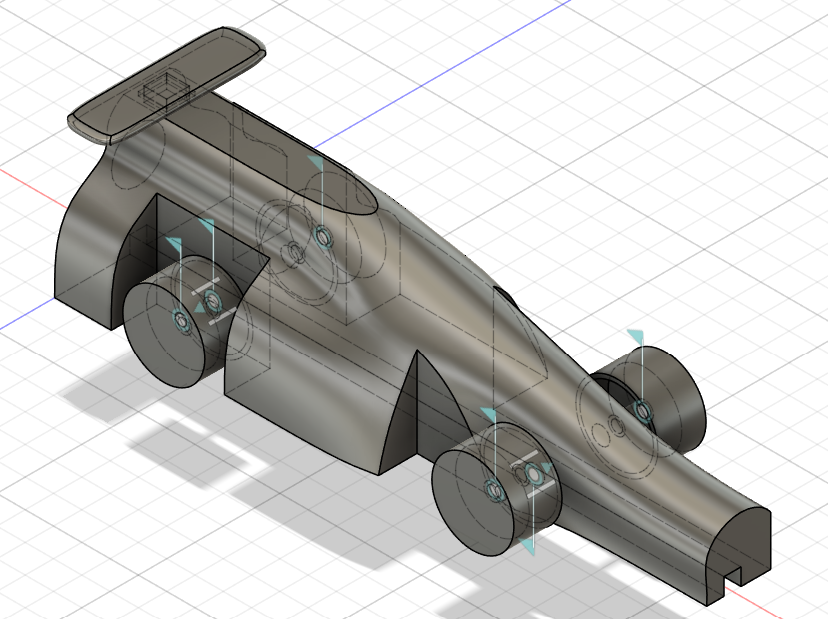
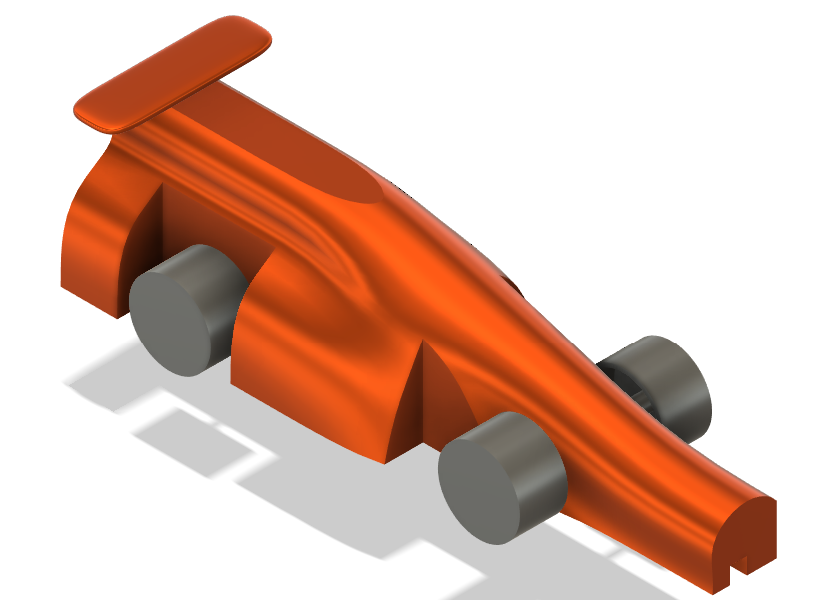
necessary changes

diff --git a/index.html b/index.html
@@ -101,7 +101,7 @@
     <section id="countdown" class="countdown reveal" aria-label="Countdown to race day">
       <div class="section-inner">
         <h2 class="section-title">Race Day <span class="text-accent">Countdown</span></h2>
-        <p class="countdown-target">31 October 2026 · 9:00 AM</p>
+        <p class="countdown-target">18 November 2026 · 9:00 AM</p>
         <div class="countdown-timer" id="countdown" role="timer" aria-live="polite">
           <div class="time-block"><span id="days" class="time-value">00</span><span class="time-label">Days</span></div>
           <div class="time-block"><span id="hours" class="time-value">00</span><span class="time-label">Hours</span></div>
@@ -296,11 +296,10 @@
         <div class="contact-grid">
           <!-- Contact Form -->
           <div class="contact-form-wrap">
-            <!-- Replace YOUR_FORM_ID with your real Formspree form ID -->
             <form
               id="contact-form"
               class="contact-form"
-              action="https://formspree.io/f/YOUR_FORM_ID"
+              action="https://formspree.io/f/mzedroee"
               method="POST"
               novalidate
             >
@@ -377,8 +376,8 @@
             <div class="info-card">
               <h3>Follow Us</h3>
               <div class="social-icons" aria-label="Social media links">
-                <a href="#" class="social" aria-label="Instagram">📷</a>
-                <a href="#" class="social" aria-label="YouTube">▶</a>
+                <a href="https://instagram.com/phoenix6racers" class="social" aria-label="Instagram">📷</a>
+                <a href="https://youtube.com/@phoenix_racers" class="social" aria-label="YouTube">▶</a>
               </div>
             </div>
           </aside>
@@ -407,16 +406,15 @@
       <div class="footer-social">
         <h4>Follow Us</h4>
         <div class="social-icons">
-          <a href="#" class="social" aria-label="Instagram">📷</a>
-          <a href="#" class="social" aria-label="X (Twitter)">✖</a>
-          <a href="#" class="social" aria-label="YouTube">▶</a>
+          <a href="https://instagram.com/phoenix6racers" class="social" aria-label="Instagram">📷</a>
+          <a href="https://youtube.com/@phoenix_racers" class="social" aria-label="YouTube">▶</a>
         </div>
       </div>
 
       <div class="footer-contact">
         <h4>Contact</h4>
-        <p><a href="mailto:ryanhirekerur@gmail.com?subject=Contact">contact@phoenixracers.com</a></p>
-        <p><a href="#" aria-label="Instagram @phoenixracers.cgs">📷 @cgs_phoenixracers</a></p>
+        <p><a href="mailto:ryanhirekerur@gmail.com?subject=Contact">Our Email ID</a></p>
+        <p><a href="https://instagram.com/phoenix6racers" aria-label="Instagram @phoenixracers.cgs">📷 @cgs_phoenixracers</a></p>
       </div>
     </div>
     <div class="footer-bottom">

diff --git a/chatbot.js b/chatbot.js
@@ -19,7 +19,7 @@
     teamName: "Phoenix Racers",
     mission:
       "Our team combines creativity, engineering, teamwork and innovation to compete in STEM Racing.",
-    competitionDate: "31 October 2026",
+    competitionDate: "18 November 2026",
     pages: ["Home", "Car Design", "Team", "Sponsors", "Contact"],
     members: [
       { name: "Ryan Hirekerur", role: "Team Manager", desc: "Coordinates activities and keeps the team organized." },
@@ -142,6 +142,12 @@
       answer:
         "We have Gold, Silver, and Bronze sponsor tiers. Partner with us to support the next generation of innovators! Scrolling to the Sponsors section. 🤝",
       suggestions: ["How can I sponsor you?", "Contact the team"],
+    },
+    {
+      id: "social-media",
+      keywords: ["social media", "socials", "what are your socials", "social media accounts", "instagram", "insta", "youtube", "ytube", "instagram name", "youtube name", "instagram handle", "youtube handle", "follow us", "handles"],
+      answer:
+        'Follow us on Instagram at <a href="https://instagram.com/phoenix6racers" target="_blank" rel="noopener noreferrer">@phoenix6racers</a> and YouTube at <a href="https://youtube.com/@phoenix_racers" target="_blank" rel="noopener noreferrer">@phoenix_racers</a>.',
     },
     {
       id: "contact",

diff --git a/script.js b/script.js
@@ -144,7 +144,7 @@ document.addEventListener("DOMContentLoaded", () => {
   });
 
   /* ---------- Countdown Timer ---------- */
-  const targetDate = new Date("2026-10-31T09:00:00").getTime();
+  const targetDate = new Date("2026-11-18T09:00:00").getTime();
   const daysEl = document.getElementById("days");
   const hoursEl = document.getElementById("hours");
   const minutesEl = document.getElementById("minutes");
